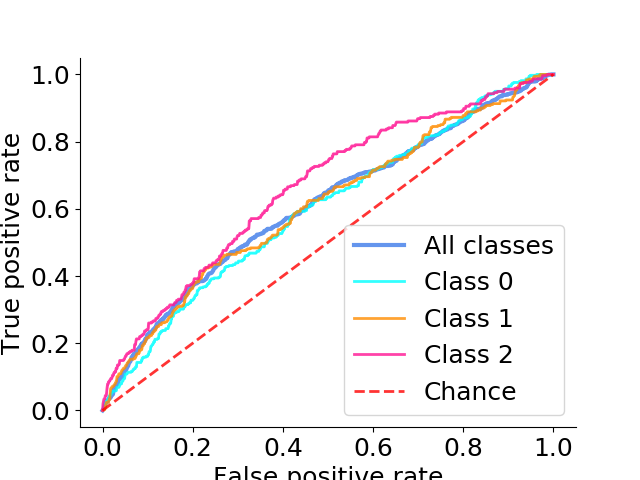
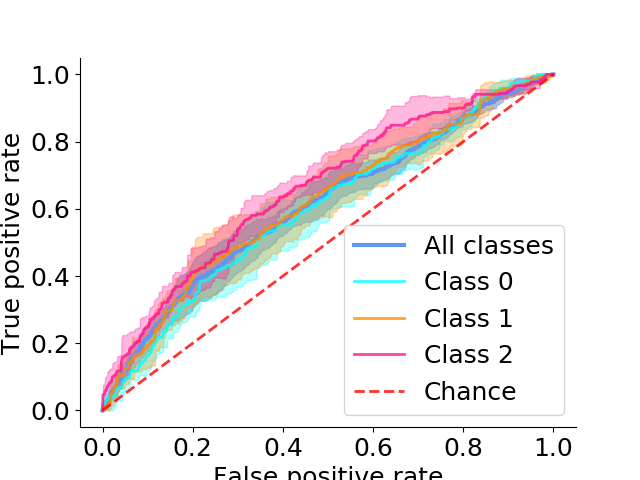
update roc curve plotting on test set to calc standard deviation on tissues

Changed region(s): [[0.1562, 0.1562, 0.875, 0.875]]

diff --git a/Code/Classifiers/MyScorer.py b/Code/Classifiers/MyScorer.py
@@ -2,6 +2,7 @@ import copy
 import matplotlib.pyplot as plt
 import numpy as np
 import scipy
+import pandas as pd
 import pickle, sys, sklearn
 
 from itertools import cycle
@@ -491,7 +492,7 @@ def plotGivenFeatureSetRocCurves(resultsBaseFolder="Results/topoPredData/diff/ma
                                  modelBaseFolder="Results/topoPredData/diff/manualCentres/",
                                  excludeDivNeighbours=True, saveFig=True, useValidationData=True,
                                  featureSets=["allTopos", "bio", "topoAndBio"],
-                                 saveUnderFolder=None):
+                                 saveUnderFolder=None, doStdOnTestTissues=True):
     if saveUnderFolder is None:
         saveUnderFolder = resultsBaseFolder
     allMeans, allStds = [], []
@@ -514,6 +515,24 @@ def plotGivenFeatureSetRocCurves(resultsBaseFolder="Results/topoPredData/diff/ma
             modelsOfSplit = [pickle.load(open(modelFolder + modelName, "rb"))]
         dataXs = pickle.load(open(resultsFolder + "{}Xs.pkl".format(dataName), "rb"))
         labelYs = pickle.load(open(resultsFolder + "{}Ys.pkl".format(dataName), "rb"))
+        if not useValidationData and doStdOnTestTissues:
+            import pandas as pd
+            labelOverviewDf = pd.read_csv(resultsFolder+"labelOverviewDf.csv")
+            labelOverviewDf = labelOverviewDf.loc[labelOverviewDf["isCellTest"], :]
+            groups = labelOverviewDf.groupby(["plant", "time point"])
+            nrOfTissues = 0
+            newDataXs, newLabelYs = [], []
+            startIdx = 0
+            for tissueId, tissueOverview in groups:
+                nrOfSamples = len(tissueOverview)
+                endIdx = startIdx + nrOfSamples
+                newDataXs.append(dataXs[0][startIdx:endIdx, :])
+                newLabelYs.append(labelYs[0][startIdx:endIdx])
+                nrOfTissues += 1
+                startIdx = endIdx
+            modelsOfSplit = nrOfTissues * [modelsOfSplit[0]]
+            dataXs = newDataXs
+            labelYs = newLabelYs
         plotLegend = i == 0
         means, stds = plotRocCurveWithCv(modelsOfSplit, dataXs, labelYs, title=title, plotShow=False,
                            plotLegend=plotLegend)

diff --git a/Code/mainAnalyseOccurrenceAndPerformance.py b/Code/mainAnalyseOccurrenceAndPerformance.py
@@ -89,5 +89,5 @@ def plotAndPrepareSuppFigures(resultsFolder="Results/SuppFigures/", figuresToDo=
 
 
 if __name__== "__main__":
-    # plotAndPrepareMainFigures()
-    plotAndPrepareSuppFigures()
+    plotAndPrepareMainFigures()
+    # plotAndPrepareSuppFigures()
